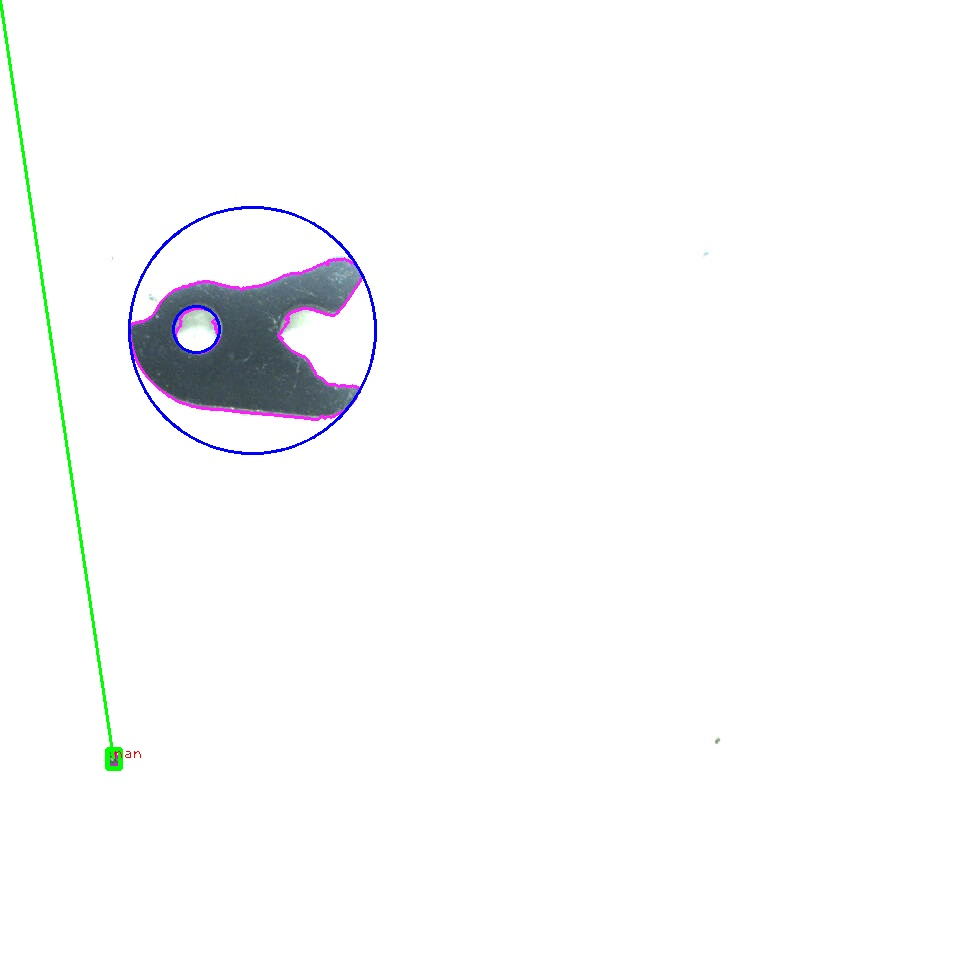
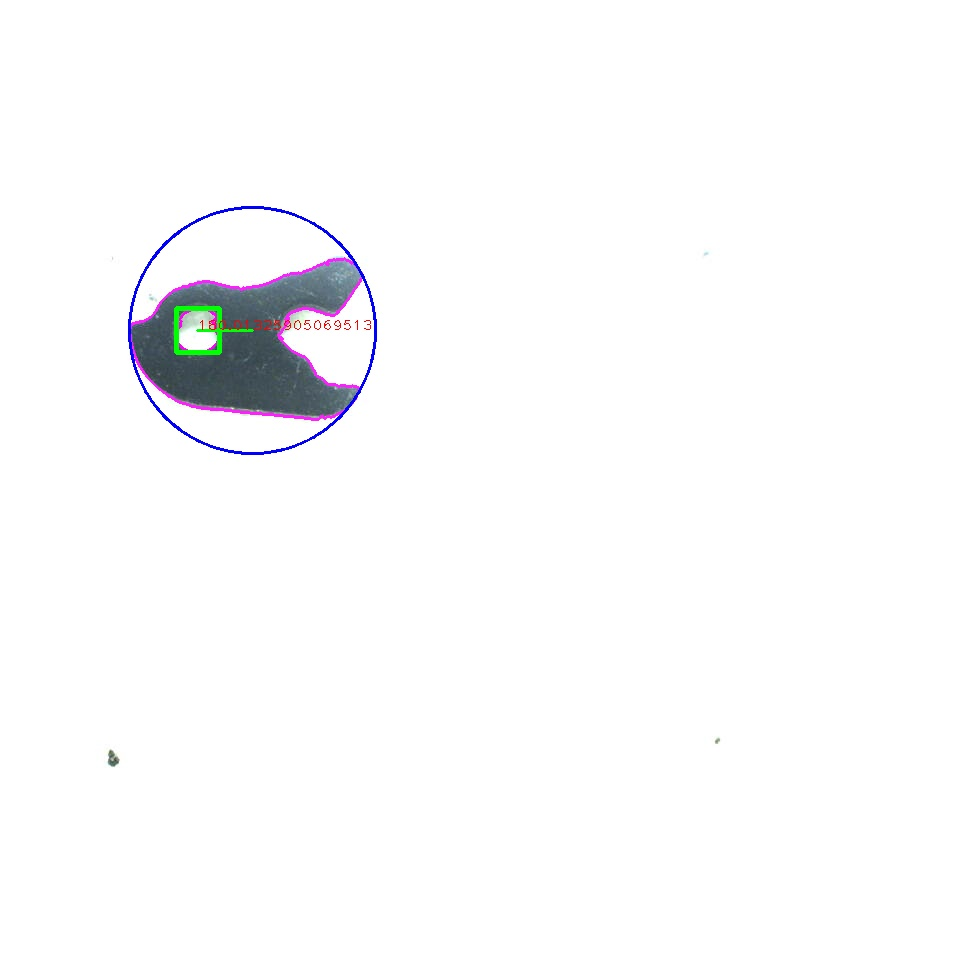
update finally

diff --git a/CamCalib/CalibCode/7_20finally.py b/CamCalib/CalibCode/7_20finally.py
@@ -20,7 +20,7 @@ def calibrate():
         ret, corners = cv2.findChessboardCorners(gray, (Nx_cor, Ny_cor), None)
         print(ret)
         if ret:
-            corners = cv2.cornerSubPix(gray, corners, (5, 5), (-1, -1), criteria)
+            corners = cv2.cornerSubPix(gray, corners, (5, 5), (1, 1), criteria)
             obj_points.append(objp)
             img_points.append(corners)
             cv2.drawChessboardCorners(img, (Nx_cor, Ny_cor), corners, ret)
@@ -68,7 +68,6 @@ def Transfer():
             imgp = np.flipud(imgp_temp)
 
         ret, rmtx, tmtx, inliers = cv2.solvePnPRansac(objp, imgp, mtx, dist)
-
         # project 3D points to image plane
         imgpts, jac = cv2.projectPoints(axis_axis, rmtx, tmtx, mtx, dist)
         img = draw_axis(img, imgp, imgpts)
@@ -92,33 +91,42 @@ def DetectCircle(matrix, Rmatrix, tmatrix):
     imgGray = cv2.cvtColor(imgroi, cv2.COLOR_BGR2GRAY)
     ret, binary = cv2.threshold(imgGray, 0, 255, cv2.THRESH_BINARY+cv2.THRESH_OTSU)
     contours, hierarchy = cv2.findContours(binary, cv2.RETR_TREE, cv2.CHAIN_APPROX_NONE)
+
     Cx = 0
     Cy = 0
-    angel = 0
-
     find = False # 是否检测到圆的标志,False--->未检测到圆，True--->检测到圆
+   
     for cnt in contours:
         area = cv2.contourArea(cnt)
         # 工件大圆检测
-        if 1000 < area < 500000:
+        if 2000 < area < 500000:
             cv2.drawContours(imgroi, cnt, -1, (255, 30, 255), 2)  # 绘制外轮廓
+            # peri = cv2.arcLength(cnt, True)
+            # print('工件的周长是:', peri)
             (Cx, Cy), radius = cv2.minEnclosingCircle(cnt)
             Xcenter = (int(Cx), int(Cy))
-            circle_point = np.array([Cx + 320, Cy], dtype=np.float32)
-            cv2.circle(imgroi, Xcenter, int(radius), (255, 0, 0), 2)
+            Sx = Cx + 320
+            Sy = Cy
+            circle_point = np.array([Sx, Sy], dtype=np.float32)
+            radius = int(radius)
+            cv2.circle(imgroi, Xcenter, radius, (255, 0, 0), 2)
+            print("大圆中心坐标为：", Xcenter)
             find = True
 
         # 工件小圆检测
-        if 100 < area < 1000:
+        if 200 < area < 2000:
             cv2.drawContours(imgroi, cnt, -1, (255, 0, 255), 2)  # 绘制外轮廓
             peri = cv2.arcLength(cnt, True)
+            # print('圆的周长:',peri)
             approx = cv2.approxPolyDP(cnt, 0.02 * peri, True)
+            # print('拐点坐标:',approx)
+            # print('圆的拐点个数为:',len(approx))
             x, y, w, h = cv2.boundingRect(approx)
             cv2.rectangle(imgroi, (x, y), (x + w, y + h), (0, 255, 0), 3)
             Rx = x + w / 2
             Ry = y + h / 2
             Ycenter = (int(Rx), int(Ry))
-            # print("圆心坐标为:", Ycenter)
+            print("小圆中心坐标为:", Ycenter)
             cv2.line(imgroi, (int(Cx), int(Cy)), (int(Rx), int(Ry)), (0, 255, 0), 2)
             a = np.array([int(Rx - Cx), int(Ry - Cy)])
             b = np.array([int(Cx), 0])
